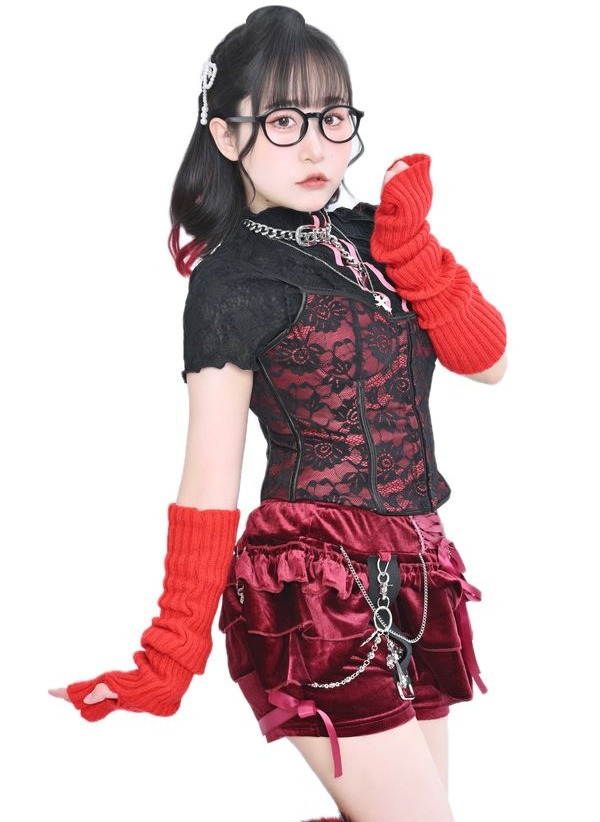
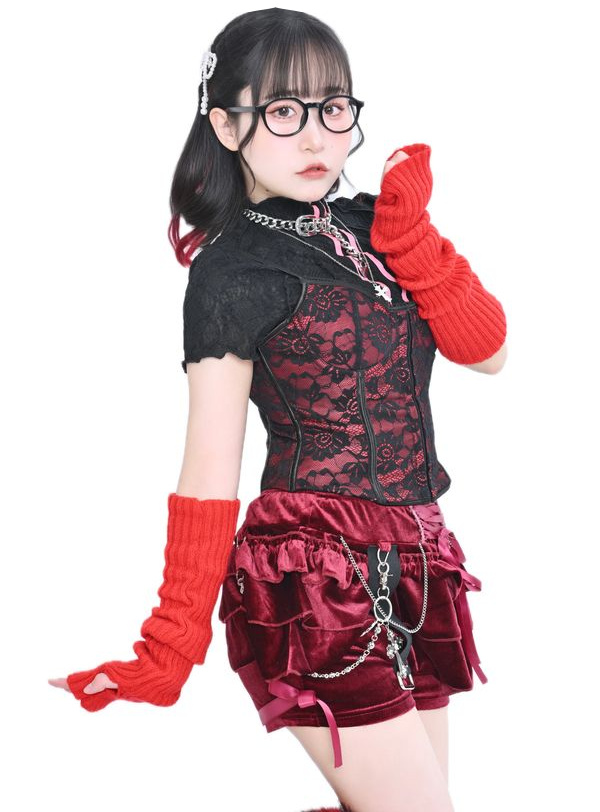
Round Toggy's crown along her hair outline.
Replace the raised cap with a low curve that continues the existing silhouette, and keep the same scale, frame, and placement.

Changed region(s): [[0.09, 0.0, 0.84, 0.9236], [0.39, 0.8005, 0.42, 0.8621], [0.42, 0.8621, 0.45, 0.8929]]

diff --git a/index.html b/index.html
@@ -140,7 +140,7 @@ p,li,dd{line-height:1.7}
 .member-photo picture{position:absolute;inset:0;display:block;width:100%;height:100%;overflow:clip}
 .member-photo img{position:absolute;width:170%;height:auto;max-width:none;left:-35%;object-fit:contain;display:block}
 .member-photo img.hyuga{top:-12.31%}
-.member-photo img.toggy{top:6.32%;left:-26.6%}
+.member-photo img.toggy{top:5.95%;left:-26.6%}
 .tag{display:block;margin:8px 0 0;padding:2px 6px;background:#E7E2D6;font-size:12px;font-weight:700;line-height:1.5;min-height:2.8em}
 .members h3{margin:6px 0 4px;font-size:18px}
 .members p{margin:0;font-size:15px;line-height:1.65;word-break:auto-phrase;line-break:strict;-webkit-line-break:strict;overflow-wrap:break-word}
@@ -393,7 +393,7 @@ html.has-sticky-entry{padding-bottom:var(--sticky-h,80px)}
 </div>
 </article>
 <article>
-<div class="member-photo"><picture><source srcset="images/togi-retouched.webp" type="image/webp"><img class="toggy" src="images/togi-retouched.jpg" width="600" height="822" alt="トギー" loading="lazy"></picture></div>
+<div class="member-photo"><picture><source srcset="images/togi-retouched.webp" type="image/webp"><img class="toggy" src="images/togi-retouched.jpg" width="600" height="812" alt="トギー" loading="lazy"></picture></div>
 <p class="tag">第3期BiS唯一のオリジナルメンバー</p>
 <h3>トギー</h3>
 <p>2019年のBiS始動から約5年半にわたり中核を担い続けた。解散後11カ月の沈黙を経て2025年12月に電撃加入。</p>
